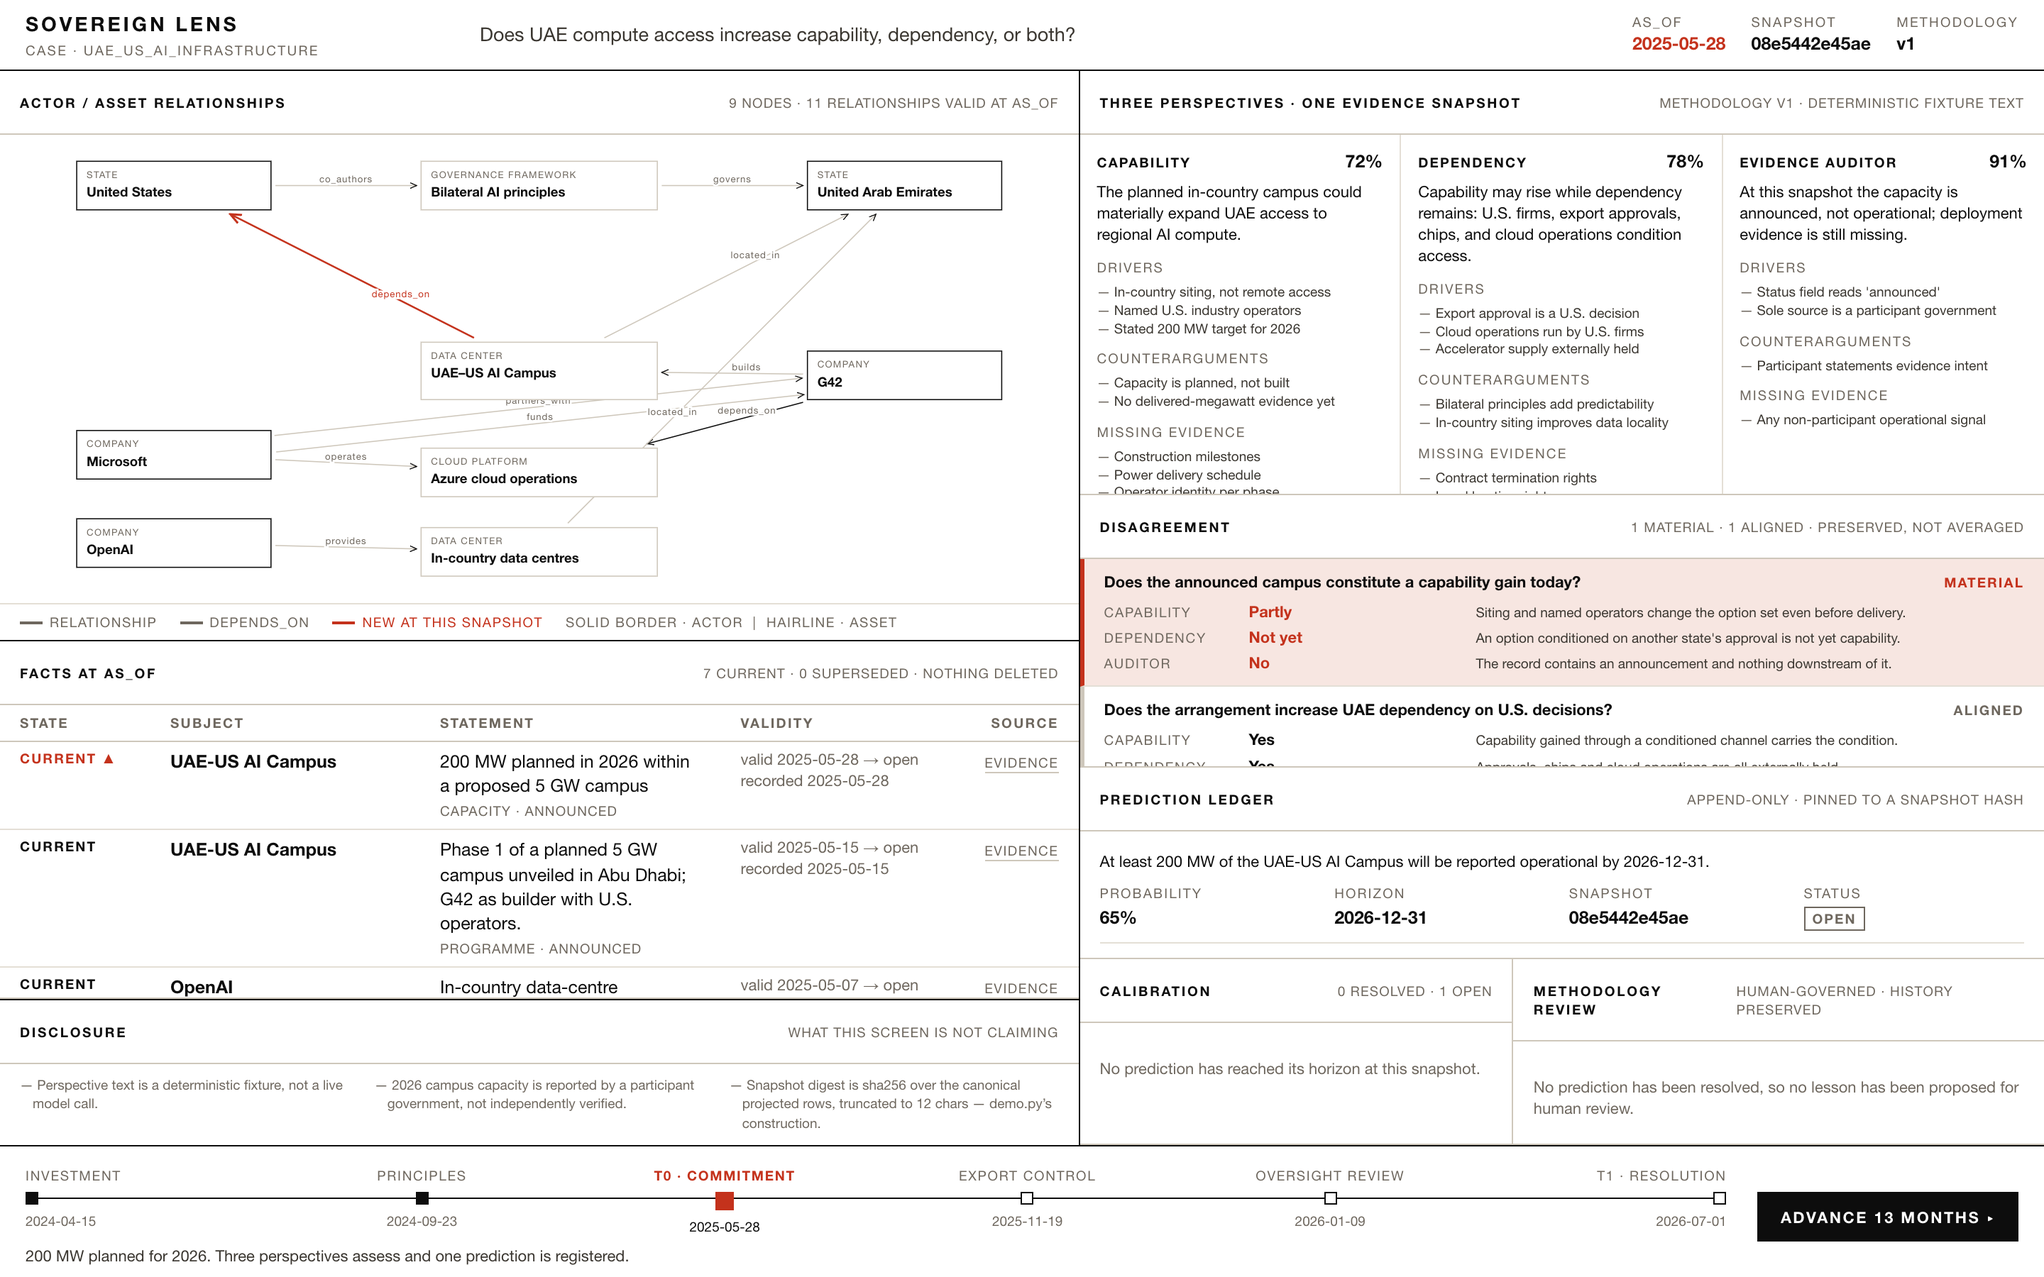
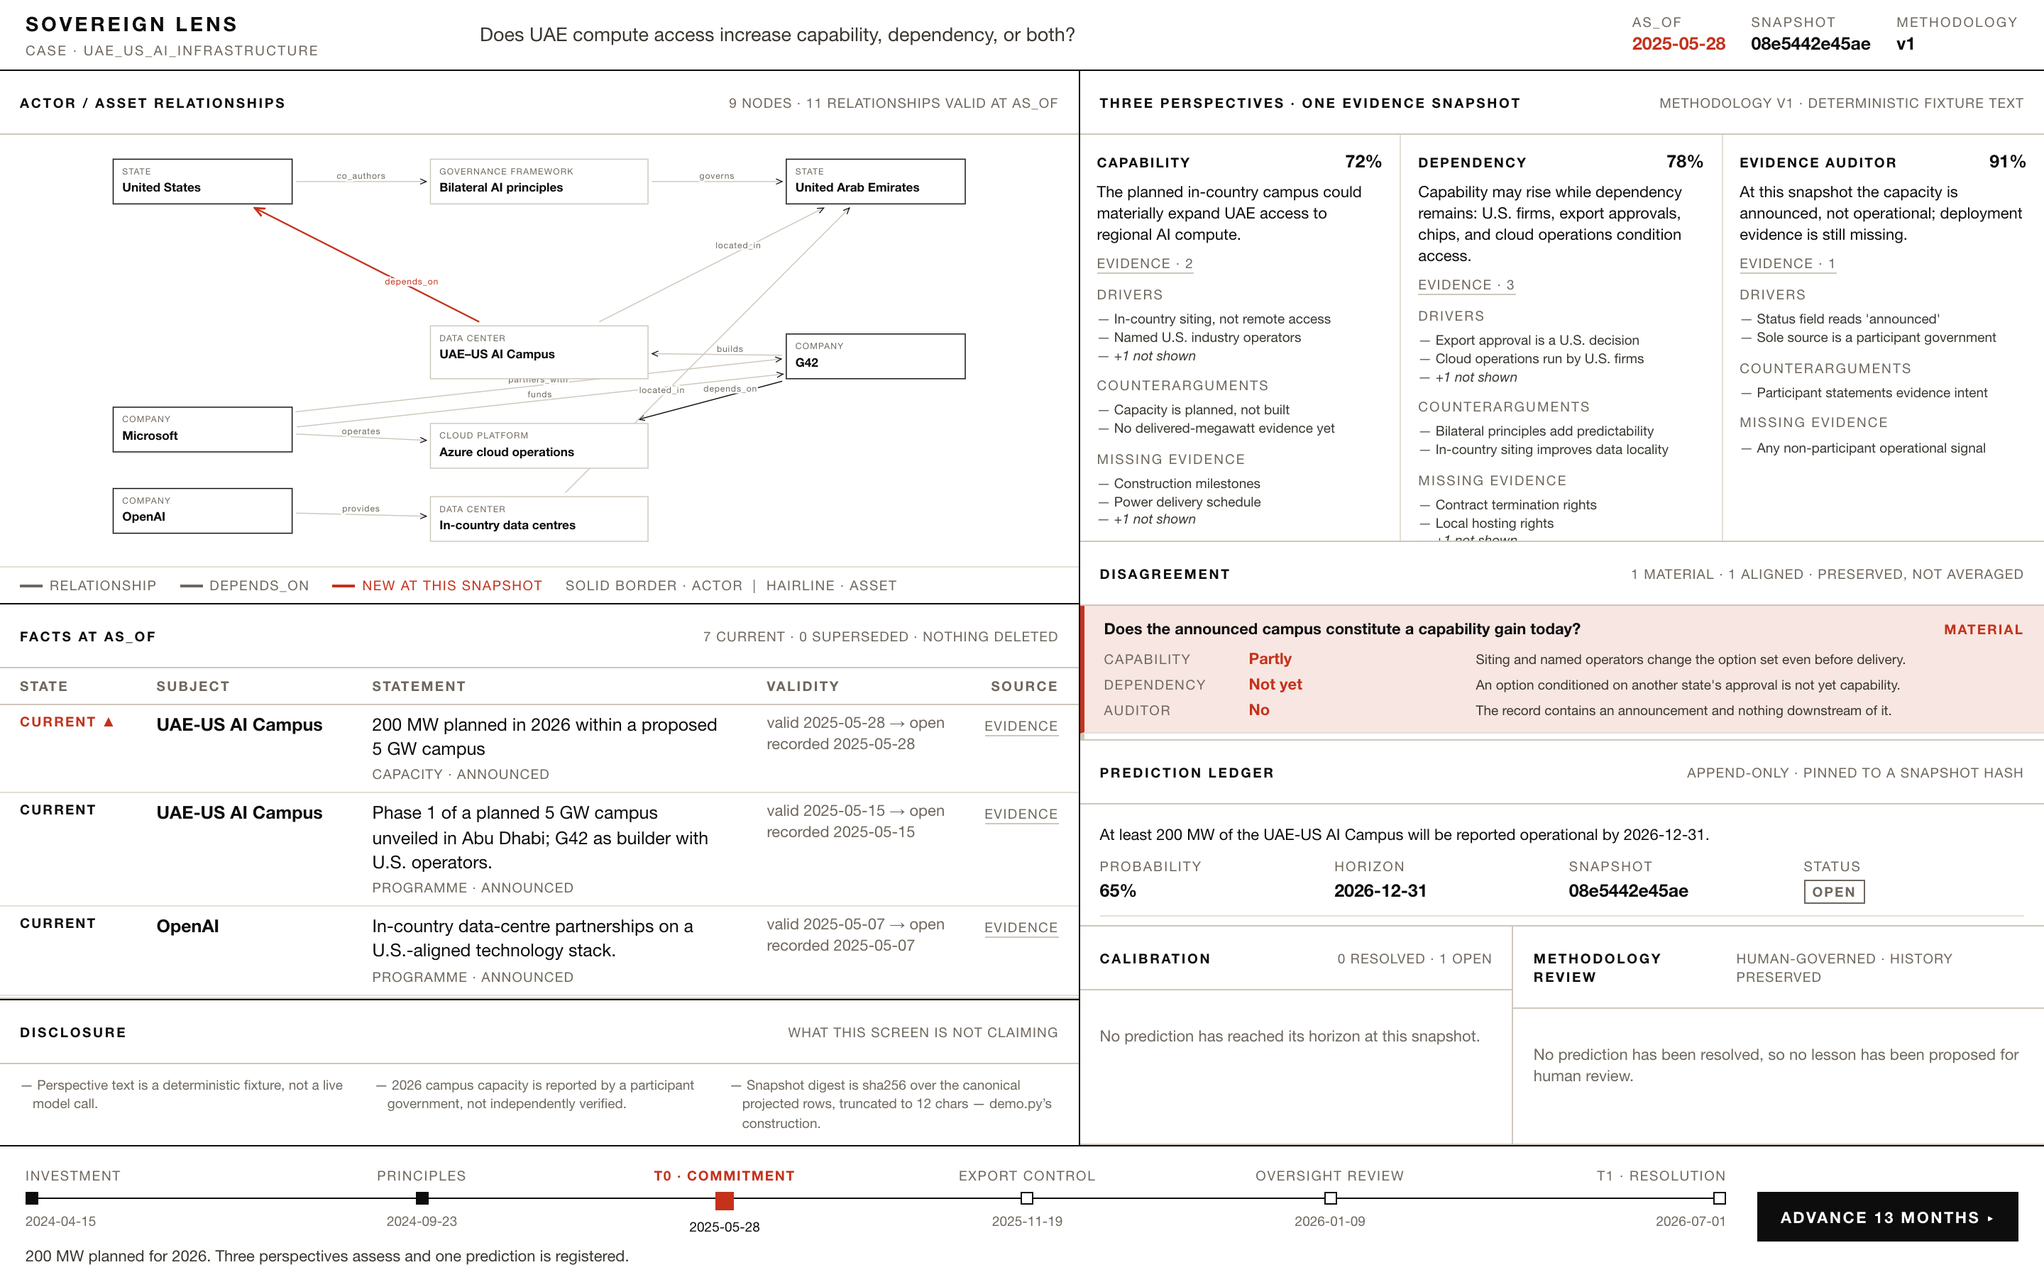
Refine web dossier: fold layout onto one screen, verify digest against demo.py
Everything the three-minute narration needs now fits 1440x900 without page
scroll: current and superseded facts sit adjacent instead of in separate
blocks, and the ledger, Brier score and v1 -> v2 review are above the fold.

- Merge fact display ordering so a supersession renders directly beneath the
  fact that replaced it; changed-at-this-snapshot rows sort first.
- Fan parallel graph edges apart so their labels stop overlapping.
- Cap perspective card lists at two items and state how many are not shown;
  collapse aligned disagreement axes to one line, keep material ones open.
- Show the verification plan while a prediction is open and the observed
  outcome once it resolves, rather than competing for the same row.
- Add source cross-referencing to the evidence drawer: every visible claim
  resting on the selected sources, superseded ones included.
- Document the seam, the fixture provenance and the four on-screen
  disclosures in web/README.md.

The TypeScript projection is checked against the Python core: adapter.test.ts
asserts projectFacts reproduces the c7871e3381f8 and e4ea995af4cf digests
demo.py prints, from the same two rows, so the two implementations cannot
drift silently.

34 tests pass; typecheck and production build clean.

diff --git a/web/src/components/PerspectivePanel.tsx b/web/src/components/PerspectivePanel.tsx
@@ -8,6 +8,23 @@ const LABEL: Record<Perspective, string> = {
 
 const ORDER: Perspective[] = ['capability', 'dependency', 'evidence_auditor']
 
+/** The card is a summary, not the record. It shows the first two items and says
+ *  how many it is not showing — a silent truncation would read as completeness. */
+const SHOWN = 2
+
+function Items({ label, items }: { label: string; items: string[] }) {
+  const hidden = items.length - SHOWN
+  return (
+    <>
+      <div className="perspective__sublabel">{label}</div>
+      <ul className="perspective__list">
+        {items.slice(0, SHOWN).map((item) => <li key={item}>{item}</li>)}
+        {hidden > 0 ? <li className="perspective__more">+{hidden} not shown</li> : null}
+      </ul>
+    </>
+  )
+}
+
 export function PerspectivePanel({
   assessments, onCite,
 }: {
@@ -40,29 +57,17 @@ export function PerspectivePanel({
                     <span className="perspective__confidence">{Math.round(a.confidence * 100)}%</span>
                   </div>
                   <p className="perspective__text">{a.assessment}</p>
-
-                  <div className="perspective__sublabel">Drivers</div>
-                  <ul className="perspective__list">
-                    {a.drivers.map((d) => <li key={d}>{d}</li>)}
-                  </ul>
-
-                  <div className="perspective__sublabel">Counterarguments</div>
-                  <ul className="perspective__list">
-                    {a.counterarguments.map((c) => <li key={c}>{c}</li>)}
-                  </ul>
-
-                  <div className="perspective__sublabel">Missing evidence</div>
-                  <ul className="perspective__list">
-                    {a.missing_evidence.map((m) => <li key={m}>{m}</li>)}
-                  </ul>
-
                   <button
                     className="cite"
-                    style={{ marginTop: 'auto', alignSelf: 'flex-start' }}
+                    style={{ alignSelf: 'flex-start' }}
                     onClick={() => onCite(a.assessment, `${LABEL[perspective]} · ${a.as_of}`, a.source_ids)}
                   >
                     evidence · {a.source_ids.length}
                   </button>
+
+                  <Items label="Drivers" items={a.drivers} />
+                  <Items label="Counterarguments" items={a.counterarguments} />
+                  <Items label="Missing evidence" items={a.missing_evidence} />
                 </article>
               )
             })}

diff --git a/web/src/components/EvidenceDrawer.tsx b/web/src/components/EvidenceDrawer.tsx
@@ -1,4 +1,4 @@
-import type { SourceId, SourceRecord } from '../types'
+import type { FactRecord, SourceId, SourceRecord } from '../types'
 
 export interface EvidenceSelection {
   claim: string
@@ -21,13 +21,22 @@ const PERSPECTIVE_LABEL: Record<string, string> = {
  * evidence auditor's dissent only makes sense if that distinction is on screen.
  */
 export function EvidenceDrawer({
-  selection, sources, onClose,
+  selection, sources, facts, onClose,
 }: {
   selection: EvidenceSelection
   sources: Record<SourceId, SourceRecord>
+  /** Every fact visible at the current as_of, current or superseded. */
+  facts: FactRecord[]
   onClose: () => void
 }) {
   const records = selection.sourceIds.map((id) => sources[id]).filter(Boolean)
+  const selected = new Set(selection.sourceIds)
+
+  // How much of the current picture rests on these documents. A source carrying
+  // several claims is a concentration worth seeing before trusting any one of them.
+  const alsoResting = facts.filter(
+    (fact) => selected.has(fact.source_id) && !selection.claim.includes(fact.object),
+  )
 
   return (
     <>
@@ -63,6 +72,22 @@ export function EvidenceDrawer({
             <p className="empty" style={{ padding: 0 }}>
               This claim carries no source reference — it should not be displayed as evidence-backed.
             </p>
+          ) : null}
+
+          {alsoResting.length > 0 ? (
+            <div className="drawer__also">
+              <div className="kv__k">
+                Also resting on {records.length === 1 ? 'this source' : 'these sources'}
+              </div>
+              <ul className="perspective__list" style={{ marginTop: 6 }}>
+                {alsoResting.map((fact) => (
+                  <li key={fact.id}>
+                    {fact.subject} — {fact.object}
+                    {fact.superseded_at ? ' (superseded)' : ''}
+                  </li>
+                ))}
+              </ul>
+            </div>
           ) : null}
 
           <div className="drawer__also">

diff --git a/web/src/styles.css b/web/src/styles.css
@@ -116,7 +116,7 @@ a { color: var(--ink); text-underline-offset: 2px; }
 
 .column-left {
   display: grid;
-  grid-template-rows: minmax(0, 1fr) minmax(212px, 252px) auto;
+  grid-template-rows: minmax(0, 1fr) minmax(240px, 278px) auto;
   min-height: 0;
   border-right: 1px solid var(--ink);
 }
@@ -125,7 +125,7 @@ a { color: var(--ink); text-underline-offset: 2px; }
    the ledger, the Brier score, the v1 → v2 review — is allowed below the fold. */
 .column-right {
   display: grid;
-  grid-template-rows: minmax(0, 1.46fr) minmax(0, 0.94fr) minmax(0, 0.66fr) minmax(0, 0.64fr);
+  grid-template-rows: minmax(0, 1.14fr) minmax(0, 0.48fr) minmax(0, 0.45fr) minmax(0, 0.53fr);
   min-height: 0;
   background: var(--paper);
 }
@@ -268,7 +268,7 @@ a { color: var(--ink); text-underline-offset: 2px; }
 .facts tr:hover td { background: #faf8f5; }
 
 .facts__state {
-  width: 106px;
+  width: 92px;
   font-size: var(--t-micro);
   font-weight: 700;
   letter-spacing: 0.11em;
@@ -279,9 +279,9 @@ a { color: var(--ink); text-underline-offset: 2px; }
 .facts__state--superseded { color: var(--muted); }
 .facts__state--changed { color: var(--accent); }
 
-.facts__subject { width: 190px; font-weight: 600; }
-.facts__dates { width: 168px; font-size: var(--t-small); color: var(--muted); white-space: nowrap; }
-.facts__cite { width: 84px; text-align: right; }
+.facts__subject { width: 152px; font-weight: 600; }
+.facts__dates { width: 150px; font-size: var(--t-small); color: var(--muted); white-space: nowrap; }
+.facts__cite { width: 72px; text-align: right; }
 
 .row--superseded .facts__subject,
 .row--superseded .facts__object { color: var(--muted); text-decoration: line-through; text-decoration-thickness: 1px; }
@@ -332,6 +332,7 @@ a { color: var(--ink); text-underline-offset: 2px; }
   text-indent: -9px;
 }
 .perspective__list li::before { content: '— '; color: var(--muted); }
+.perspective__more { color: var(--muted); font-style: italic; }
 
 .perspective__sublabel {
   font-size: var(--t-micro);

diff --git a/web/src/test/app.test.tsx b/web/src/test/app.test.tsx
@@ -136,6 +136,27 @@ describe('evidence drawer', () => {
     await user.click(screen.getByRole('button', { name: 'United Arab Emirates' }))
     expect(screen.getByTestId('evidence-drawer')).toHaveTextContent('United Arab Emirates')
   })
+
+  it('shows every visible claim resting on the same sources, superseded included', async () => {
+    const user = renderApp()
+    await user.click(advance())
+    await user.click(screen.getByRole('button', { name: 'UAE–US AI Campus' }))
+
+    const drawer = screen.getByTestId('evidence-drawer')
+    expect(drawer).toHaveTextContent('Also resting on these sources')
+    expect(drawer).toHaveTextContent('200 MW planned in 2026 within a proposed 5 GW campus (superseded)')
+    expect(drawer).toHaveTextContent('Phase 1 of a planned 5 GW campus')
+  })
+
+  it('links an assessment to the evidence it was drawn from', async () => {
+    const user = renderApp()
+    await user.click(
+      within(screen.getByTestId('perspective-dependency')).getByRole('button', { name: /evidence/i }),
+    )
+    const drawer = screen.getByTestId('evidence-drawer')
+    expect(drawer).toHaveTextContent('Dependency · 2025-05-28')
+    expect(within(drawer).getAllByRole('link').length).toBe(3)
+  })
 })
 
 describe('scrubbing', () => {

diff --git a/web/src/components/DisagreementPanel.tsx b/web/src/components/DisagreementPanel.tsx
@@ -34,13 +34,18 @@ export function DisagreementPanel({ axes }: { axes: DisagreementAxis[] }) {
                 <span className="axis__flag">{axis.divergence}</span>
               </div>
               <div className="axis__positions">
-                {axis.positions.map((p) => (
+                {(axis.divergence === 'aligned' ? axis.positions.slice(0, 1) : axis.positions).map((p) => (
                   <div className="position" key={p.perspective}>
                     <span className="position__who">{SHORT[p.perspective]}</span>
                     <span className="position__stance">{p.stance}</span>
                     <span className="position__note">{p.note}</span>
                   </div>
                 ))}
+                {axis.divergence === 'aligned' ? (
+                  <div className="position__note" style={{ paddingLeft: 102 }}>
+                    All three perspectives agree; positions collapsed.
+                  </div>
+                ) : null}
               </div>
             </div>
           ))}

diff --git a/web/src/App.tsx b/web/src/App.tsx
@@ -77,6 +77,7 @@ export function App({ source }: { source: DataSource }) {
         <EvidenceDrawer
           selection={evidence}
           sources={view.sources}
+          facts={[...view.snapshot.exposed, ...view.snapshot.superseded]}
           onClose={() => setEvidence(null)}
         />
       ) : null}

diff --git a/web/README.md b/web/README.md
@@ -1,0 +1,148 @@
+# Sovereign Lens — presentation interface
+
+A brutal-white Swiss dossier for the long-horizon demo in `../demo.py`. One
+screen, 1440×900, built to be narrated in three minutes from a laptop projector.
+
+It is a presentation layer over the core, not a second implementation of it. The
+core's semantics — read-time bitemporal projection, snapshot digests, the
+prediction ledger, calibration, human-governed methodology versions — are
+reproduced here so the screen can move through time without a backend, and the
+digest computation is checked against the values `demo.py` prints.
+
+## Run it
+
+```bash
+cd web
+npm install
+npm run dev          # http://localhost:5173
+```
+
+Present at 1440×900. The layout is fixed to that ratio: panels scroll inside
+themselves, the page never scrolls.
+
+```bash
+npm test             # 34 unit and component tests
+npm run build        # typecheck + production bundle
+npm run shot         # re-capture docs/*.png at 1440×900
+```
+
+## The three-minute path
+
+| Beat | Action | What appears |
+|---|---|---|
+| Evidence | opens at `as_of 2025-05-28` | 9 nodes, 7 facts, snapshot `08e5442e45ae` |
+| Disagreement | read the three cards | capability 72 · dependency 78 · auditor 91, one material axis |
+| Commitment | read the ledger | 65% by 2026-12-31, pinned to that snapshot hash, `OPEN` |
+| Long horizon | **Advance 13 months** | 500 MW current, 200 MW **superseded and still on screen**, digest changes |
+| Calibration | read the Brier panel | resolved, 0.1225 against a 0.25 coin-flip baseline, `n = 1` stated |
+| Governance | read the review panel | `v1 → v2`, accepted by a human analyst |
+| Provenance | click any **evidence** link | the source, and whose account it is |
+
+`←` / `→` scrub between stops. **Rewind to T0** resets for a second run.
+
+## Design rules
+
+Black, white, warm neutral. Inter / Helvetica / system sans, loaded from the
+system — no webfont request, so the demo survives a dead conference network.
+Hairline rules, no gradients, no shadow, no radius, no decorative map.
+
+One accent, and it carries exactly two meanings:
+
+- **material disagreement** between perspectives
+- **state that changed at this `as_of`** — a new relationship, a fact that
+  opened or closed
+
+Nothing else is allowed to be red. A globe was considered and rejected: the
+analytical objects here are relationships over time, and geography is the one
+attribute that carries no weight in the argument.
+
+## Data seam
+
+Components depend on the `DataSource` interface in `src/types.ts` — never on the
+fixture. Today `createFixtureSource` serves frozen local JSON. When the core
+grows `python3 demo.py --json` or an HTTP endpoint:
+
+```ts
+const source = await createHttpSource('/api/case/uae_us_ai_infrastructure')
+```
+
+The payload only has to match `CaseFixture`. No component changes.
+
+`src/data/adapter.ts` holds the projection. `projectFacts` hashes the same
+column set `demo.py` hashes, in the same canonical form, so `adapter.test.ts`
+asserts the TypeScript projection reproduces `c7871e3381f8` and `e4ea995af4cf`
+— the digests the Python demo prints — from the same two rows. If the two
+implementations ever drift, that test fails.
+
+## Fixture and provenance
+
+`src/data/uae-us-ai-infrastructure.fixture.json` — 11 sources, 12 nodes, 15
+relationships, 11 facts, 6 assessments, 5 disagreement axes, 1 prediction,
+1 methodology lesson.
+
+Every source is a real, public, first-party or oversight document with a live
+URL, drawn from the case manifest in the private research workspace: UAE Embassy
+statements, Microsoft and G42 announcements, the Congressional Record, a
+Commerce export statement, and a CRS overview. Every fact, node, relationship,
+assessment and prediction carries `source_ids`, and a test asserts every one of
+those references resolves.
+
+Two facts are lifted verbatim from `demo.py` so the screen and the terminal
+agree: `campus_capacity_planned` and `campus_capacity_reported_operational`.
+
+### What this screen does not claim
+
+Stated on screen, in the Disclosure strip, not only here:
+
+- **Perspective text is a deterministic fixture, not a live model call.** The
+  README's provider adapters are not implemented. Do not describe these as three
+  models having been asked.
+- **The 2026 capacity is *reported* by a participant government**, not
+  independently verified. That is the auditor's dissent, and it is the reason
+  methodology v2 exists.
+- **The digest shown is not `demo.py`'s digest** for the same date. Same
+  construction, more facts in the projection — so a different hash. The
+  conformance test pins the construction; the fixture is broader than the demo.
+- **`n = 1`.** One resolved prediction is a data point. The panel says so rather
+  than drawing a calibration curve through a single observation.
+
+### Bitemporal detail worth pointing at
+
+The congressional letter is dated **2024-07-10** but entered the record on
+**2025-06-11**. Scrub to 2024-09-23 and it is absent; scrub forward and it
+appears with its original validity date. The projection filters on
+`recorded_at <= as_of` before it filters on validity, so the screen shows what
+was knowable then, not what is known now. Supersession is recorded the same way:
+at T0 the 200 MW fact has no `valid_to`, because its closure had not yet
+happened.
+
+## Layout
+
+```
+┌─────────────────────────────┬──────────────────────────────┐
+│ relationship graph          │ three perspectives           │
+│                             ├──────────────────────────────┤
+│                             │ disagreement                 │
+├─────────────────────────────┼──────────────────────────────┤
+│ facts at as_of              │ prediction ledger            │
+│  current / superseded       ├───────────────┬──────────────┤
+├─────────────────────────────┤ calibration   │ methodology  │
+│ disclosure                  │               │  v1 → v2     │
+├─────────────────────────────┴───────────────┴──────────────┤
+│ time scrubber                          [advance 13 months] │
+└────────────────────────────────────────────────────────────┘
+```
+
+Perspective cards show the first two drivers, counterarguments and missing
+evidence, and state how many they are not showing. Aligned disagreement axes
+collapse to one line; material ones stay open. Nothing is truncated silently.
+
+## Screenshots
+
+`docs/t0-commitment.png`, `docs/t1-resolution.png`, `docs/evidence-drawer.png` —
+1440×900 at 2× — regenerate with `npm run shot`.
+
+## Scope
+
+Everything here lives under `web/`. `demo.py`, `tests/`, `docs/` at the repo
+root and the private research workspace are untouched.
